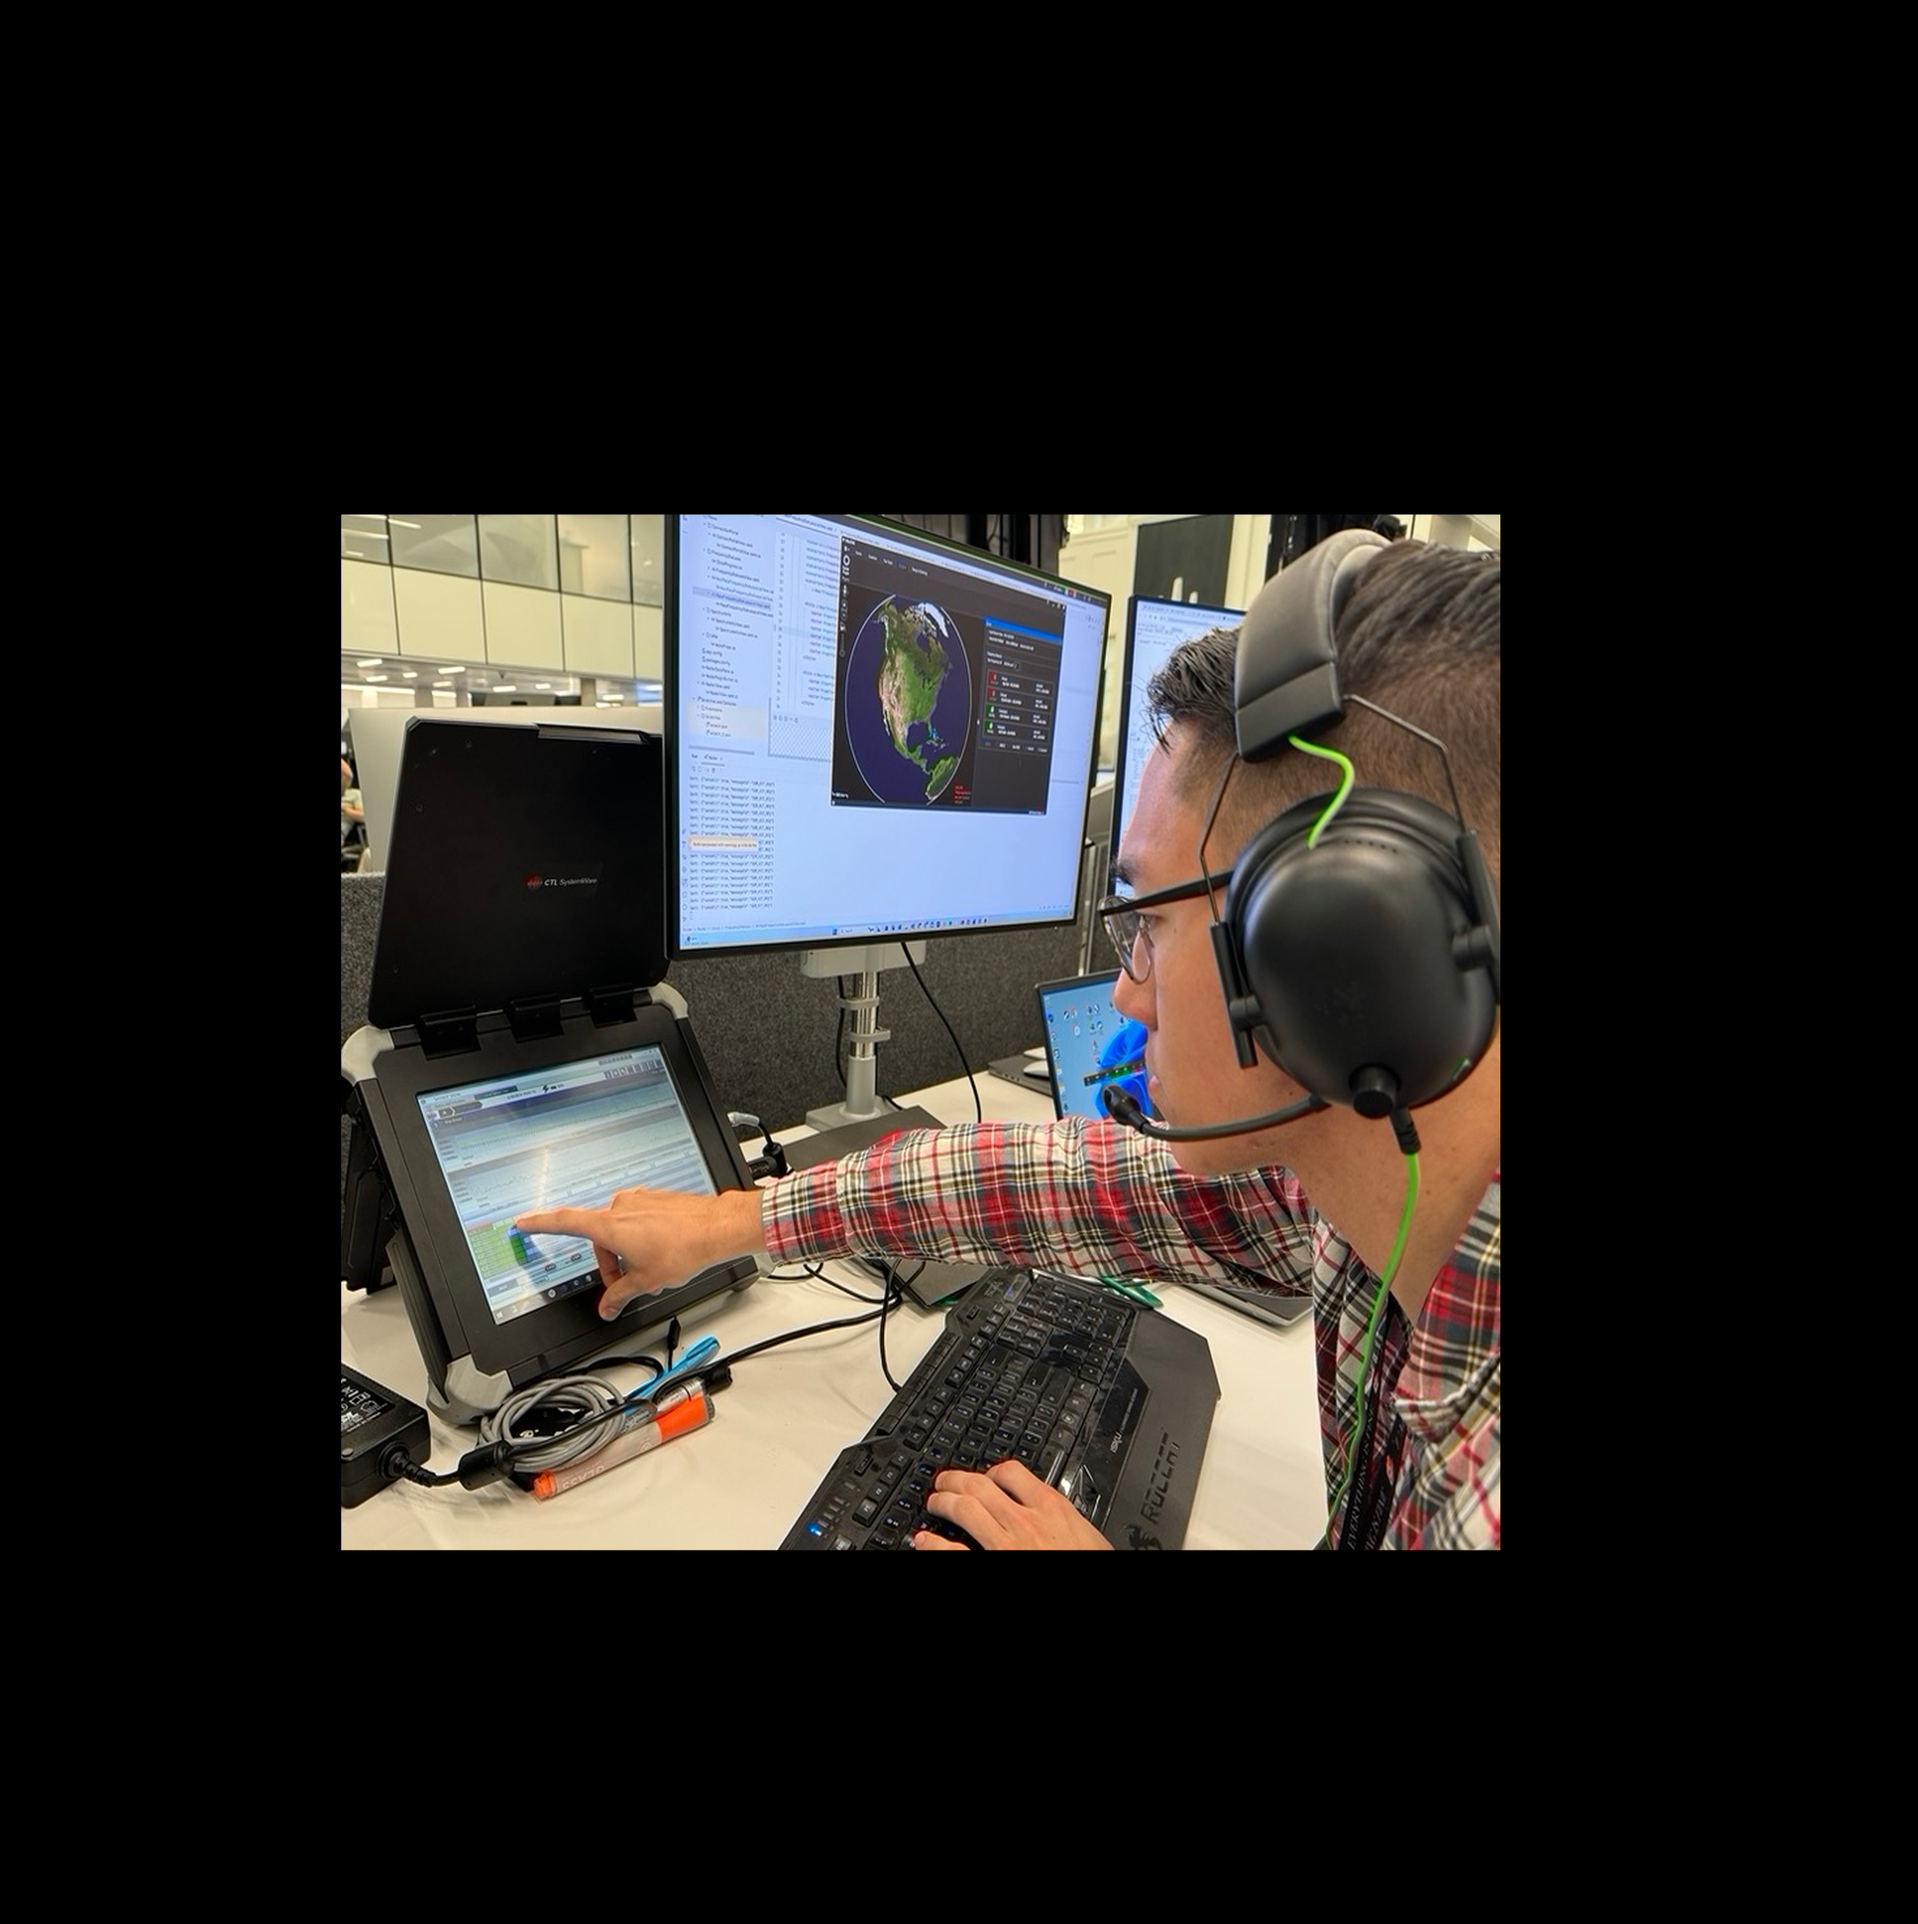
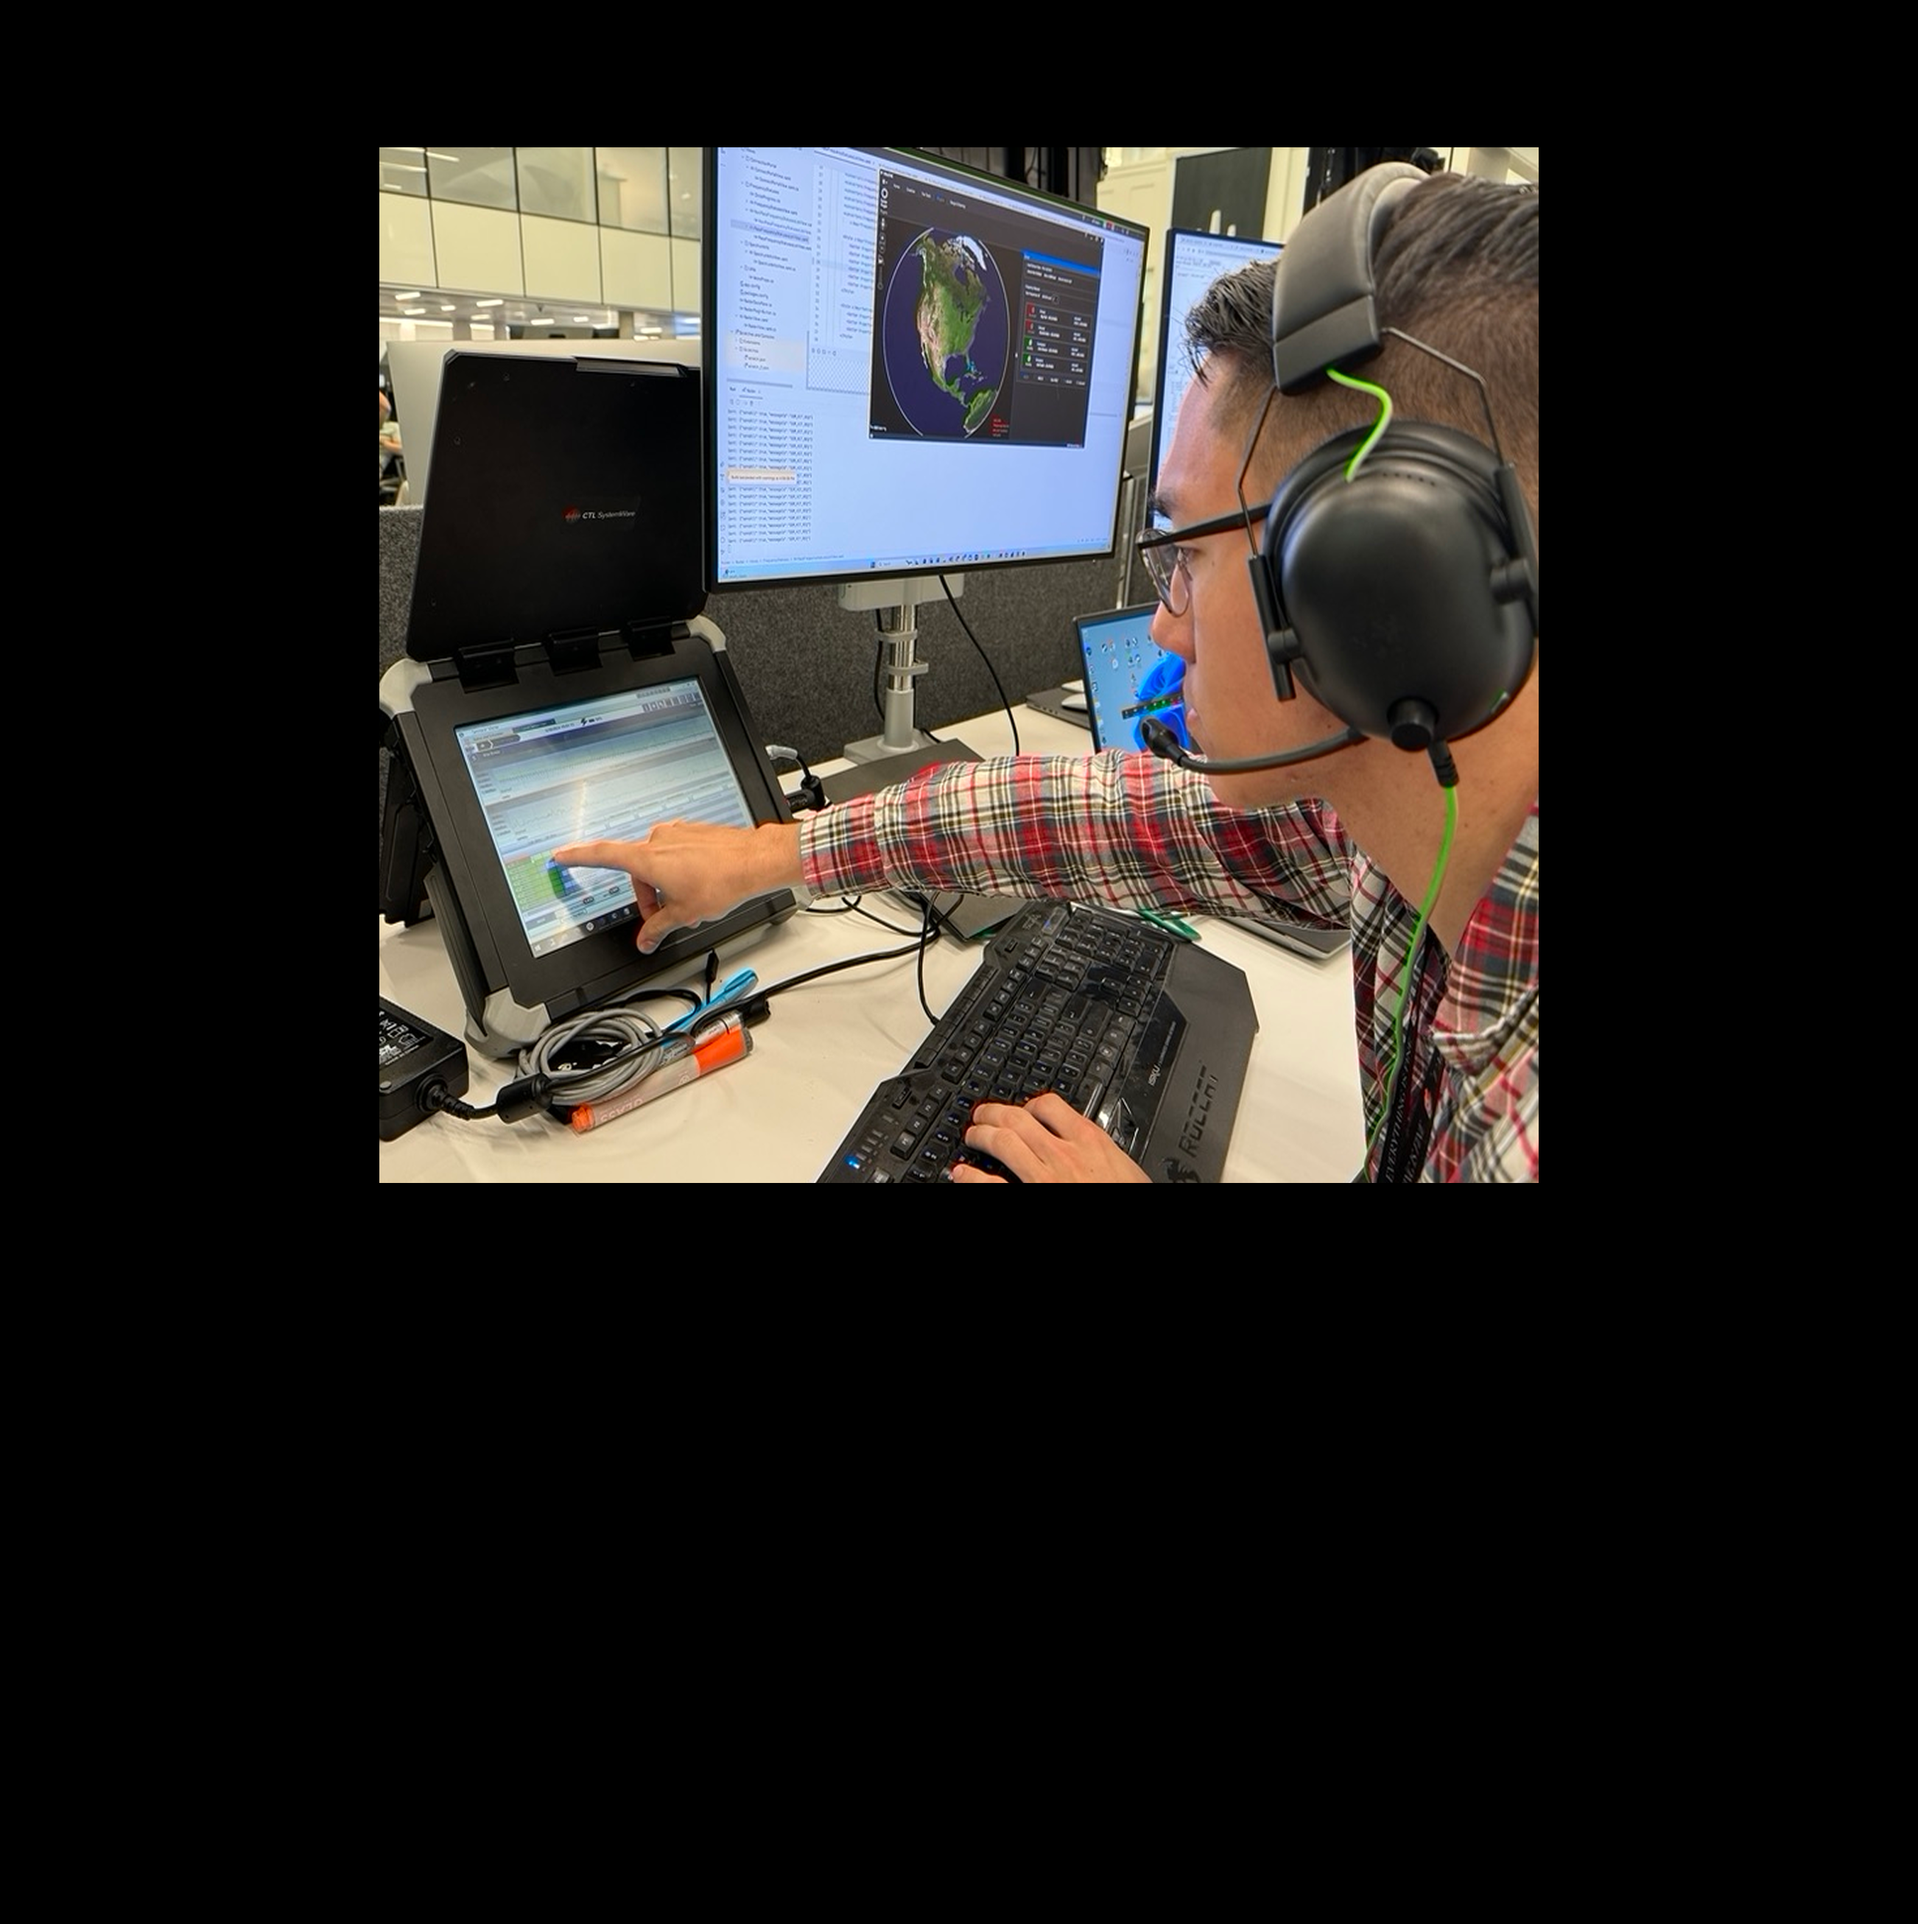
“splitfix”

diff --git a/src/app/components/case-study/CaseStudySections.tsx b/src/app/components/case-study/CaseStudySections.tsx
@@ -189,7 +189,7 @@ function TwoColumnList({ section }: { section: CaseStudyTwoColumnListSection }) 
 function ResultCards({ section }: { section: CaseStudyResultCardsSection }) {
   const accent = section.accentColor ?? "#00e5ff";
   return (
-    <div className="grid grid-cols-1 lg:grid-cols-[55%_45%] min-h-[600px] bg-[#0a0a0a]">
+    <div className="flex flex-col lg:flex-row min-h-[600px] bg-[#0a0a0a]">
       <div className="flex flex-1 flex-col justify-center gap-5 px-8 py-20 sm:px-12 lg:px-16">
         {section.heading && (
           <h2 className="max-w-full leading-tight whitespace-pre-line" style={ts(section.headingStyle, S.heading)}>
@@ -214,7 +214,7 @@ function ResultCards({ section }: { section: CaseStudyResultCardsSection }) {
           </div>
         ))}
       </div>
-      <div className="w-full h-[400px] lg:h-auto">
+      <div className="w-screen lg:w-[45%] shrink-0 -mx-8 sm:-mx-12 lg:mx-0">
         <img src={section.image} alt={section.imageAlt ?? ""} className="h-full w-full object-cover" />
       </div>
     </div>
